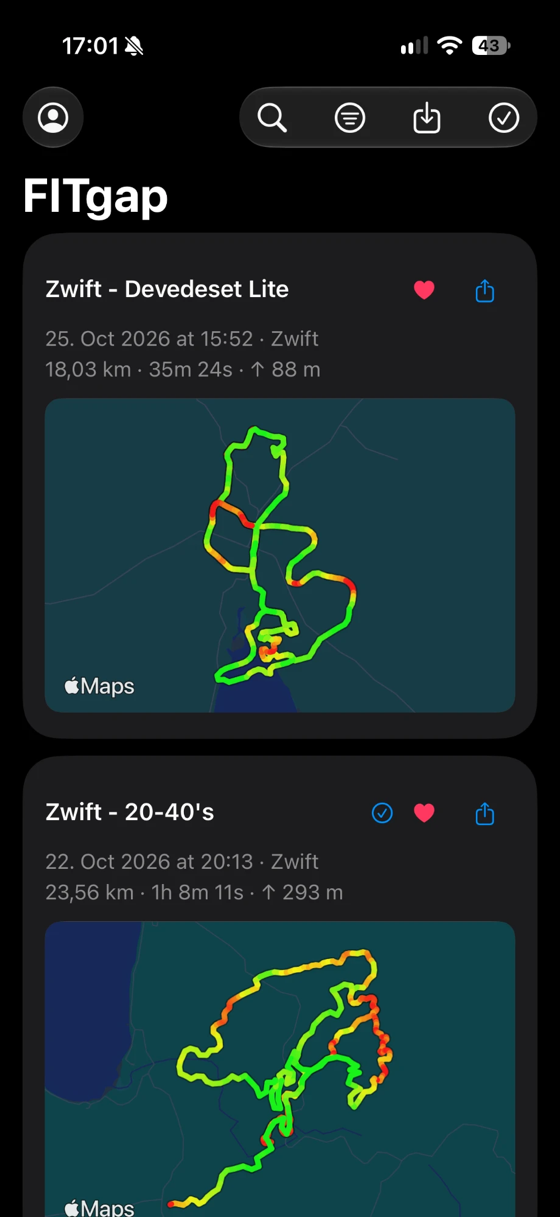
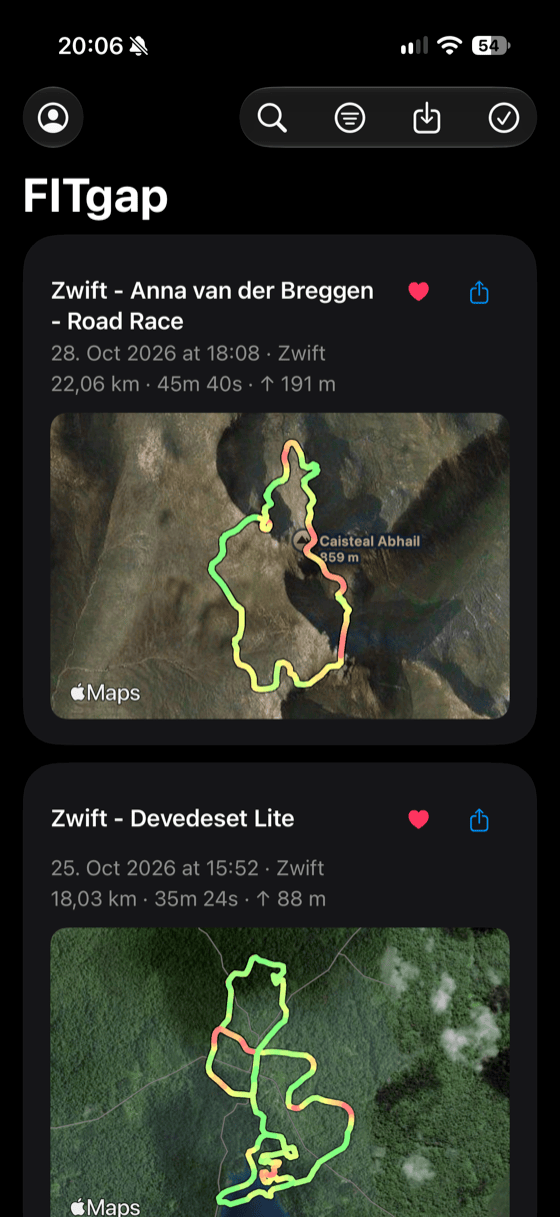
Show satellite maps on the website and in the README
- New screenshots (list, details, iPhone Duo) with the satellite map, compressed with pngquant
- Website and README mention the Standard/Satellite map type and the pastel route colours
- Add the template for the App Store preview images

diff --git a/Assets/Brand/preview-source.html b/Assets/Brand/preview-source.html
@@ -1,0 +1,104 @@
+<!doctype html>
+<!--
+  Source for the FITgap App Store preview images (same look as header-source.html).
+  Render with headless Chrome at the exact pixel size App Store Connect expects, e.g. iPhone 6.3":
+  "/Applications/Google Chrome.app/Contents/MacOS/Google Chrome" --headless --hide-scrollbars \
+    --force-device-scale-factor=1 --window-size=1206,2622 --virtual-time-budget=2000 \
+    --screenshot=out.png "file://$PWD/Assets/Brand/preview-source.html?lang=en&slide=list&w=1206&h=2622&img=file:///path/shot.png"
+  Easier: .claude/skills/app-store-previews/render.sh
+  Query parameters: lang=en|de, slide=list|detail|duo, w/h = target size in pixels, img = screenshot URL,
+  optional badge, head (headline), sub (subline) to replace the built-in copy.
+  The layout is drawn on a canvas whose short side is 660 and scaled to the window.
+-->
+<html>
+<head>
+<meta charset="utf-8">
+<style>
+  html,body{margin:0;overflow:hidden}
+  html{
+    min-height:100%;
+    background:
+      radial-gradient(ellipse 70% 45% at 50% 62%, rgba(120,160,255,.30), transparent 70%),
+      linear-gradient(180deg,#0A62FF 0%,#0B4FD8 45%,#062F9A 100%);
+  }
+  body{
+    font-family:-apple-system,"SF Pro Display","Helvetica Neue",sans-serif;
+    color:#fff;
+    display:flex;box-sizing:border-box;
+  }
+  .text{display:flex;flex-direction:column}
+  h1{margin:0;font-weight:800;letter-spacing:-.02em;line-height:1.05}
+  p{margin:0;font-weight:500;opacity:.88;line-height:1.25}
+  .badge{align-self:flex-start;background:#fff;color:#0B4FD8;font-weight:800;border-radius:999px;letter-spacing:.02em}
+  .shot{display:flex;min-height:0;min-width:0}
+  .shot img{display:block;box-sizing:border-box;
+    border:var(--bez) solid #111;background:#111;
+    box-shadow:0 30px 60px rgba(0,20,90,.45)}
+
+  /* stacked: text on top, screenshot below */
+  body.p{flex-direction:column;align-items:center;padding:64px 40px 0}
+  body.p .text{align-items:center;text-align:center;gap:14px;margin-bottom:40px}
+  body.p .badge{align-self:center;font-size:17px;padding:7px 16px}
+  body.p h1{font-size:46px}
+  body.p p{font-size:22px;max-width:520px}
+  body.p .shot{flex:1;align-items:flex-start;justify-content:center;width:100%}
+  /* tall phone screenshot: runs off the bottom edge */
+  body.p .shot img{--bez:12px;width:560px;max-width:100%;height:auto;border-radius:64px;border-bottom:0;border-bottom-left-radius:0;border-bottom-right-radius:0}
+  /* shorter screenshot (iPhone Duo): whole frame, centred in the space left */
+  body.p.short{padding-bottom:48px}
+  body.p.short .shot{align-items:center}
+  body.p.short .shot img{width:auto;height:auto;max-width:100%;max-height:100%;border-bottom:12px solid #111;border-radius:48px}
+
+  /* side by side: text left, screenshot right (very wide canvases) */
+  body.l{flex-direction:row;align-items:center;padding:48px 56px;gap:48px}
+  body.l .text{flex:0 0 380px;gap:16px}
+  body.l .badge{font-size:16px;padding:7px 16px}
+  body.l h1{font-size:50px}
+  body.l p{font-size:22px}
+  body.l .shot{flex:1;height:100%;align-items:center;justify-content:center}
+  body.l .shot img{--bez:10px;max-height:100%;max-width:100%;border-radius:36px}
+</style>
+</head>
+<body>
+  <div class="text">
+    <span class="badge" id="badge"></span>
+    <h1 id="h"></h1>
+    <p id="s"></p>
+  </div>
+  <div class="shot"><img id="img" alt=""></div>
+<script>
+  var q = new URLSearchParams(location.search);
+  var lang = q.get('lang') === 'de' ? 'de' : 'en';
+  var slide = q.get('slide') || 'list';
+  var copy = {
+    list: {
+      en: ['New: satellite map', 'Your rides on the map', 'Every activity with its route – standard or satellite, coloured by speed.'],
+      de: ['Neu: Satellitenkarte', 'Deine Fahrten auf der Karte', 'Jede Aktivität mit Strecke – Standard oder Satellit, nach Tempo eingefärbt.']
+    },
+    detail: {
+      en: ['FIT to Apple Health', 'Every detail, straight into Health', 'The complete time series of the FIT file – without duplicates.'],
+      de: ['FIT nach Apple Health', 'Alle Details direkt in Health', 'Die komplette Zeitreihe der FIT-Datei – ohne Dubletten.']
+    },
+    duo: {
+      en: ['iPhone Duo', 'List and details side by side', 'Two columns on iPhone Duo and wide displays.'],
+      de: ['iPhone Duo', 'Liste und Details nebeneinander', 'Zweispaltig auf dem iPhone Duo und breiten Displays.']
+    }
+  }[slide][lang];
+  ['badge', 'head', 'sub'].forEach(function (k, i) { if (q.has(k)) copy[i] = q.get(k); });
+  document.getElementById('badge').textContent = copy[0];
+  document.getElementById('h').textContent = copy[1];
+  document.getElementById('s').textContent = copy[2];
+
+  // Headless Chrome's viewport is a little shorter than --window-size, so the target size comes in as w/h.
+  var W = +q.get('w') || innerWidth, H = +q.get('h') || innerHeight, zoom = Math.min(W, H) / 660;
+  document.documentElement.style.zoom = zoom;
+  document.body.style.width = W / zoom + 'px';
+  document.body.style.height = H / zoom + 'px';
+  document.body.className = W / H > 1.8 ? 'l' : 'p';
+
+  var img = document.getElementById('img');
+  img.onload = function () { if (img.naturalHeight / img.naturalWidth < 1.8) document.body.classList.add('short'); };
+  img.src = q.get('img');
+</script>
+</body>
+</html>

diff --git a/docs/index.html b/docs/index.html
@@ -109,7 +109,7 @@ html[lang=en] span[data-l=en],html[lang=de] span[data-l=de]{display:inline}
     <div class="grid">
       <div class="card"><h3><span data-l="en">The whole workout in Health</span><span data-l="de">Das ganze Training in Health</span></h3><p><span data-l="en">Not just a summary: heart rate, power, cadence, speed, running dynamics, laps, pauses, swim lengths, route and metrics like TSS and Normalized Power.</span><span data-l="de">Nicht nur eine Zusammenfassung: Herzfrequenz, Leistung, Trittfrequenz, Geschwindigkeit, Laufdynamik, Runden, Pausen, Schwimmbahnen, Route und Kennzahlen wie TSS und Normalized Power.</span></p></div>
       <div class="card"><h3><span data-l="en">No duplicates</span><span data-l="de">Keine Dubletten</span></h3><p><span data-l="en">Workouts already in Health – from FITgap, Apple Watch, HealthFit or your provider's app – are skipped. The same ride from two sources? The most complete file wins.</span><span data-l="de">Trainings, die schon in Health liegen – von FITgap, Apple Watch, HealthFit oder der Anbieter-App –, werden übersprungen. Dieselbe Fahrt aus zwei Quellen? Die vollständigste Datei gewinnt.</span></p></div>
-      <div class="card"><h3><span data-l="en">Every route at a glance</span><span data-l="de">Jede Strecke auf einen Blick</span></h3><p><span data-l="en">Each activity shows its route on a map, coloured by speed – virtual rides from Zwift or MyWhoosh included. Tap for a full map to zoom in.</span><span data-l="de">Jede Aktivität zeigt ihre Strecke auf der Karte, nach Tempo eingefärbt – auch virtuelle Fahrten aus Zwift oder MyWhoosh. Ein Tipp öffnet die große Karte zum Hineinzoomen.</span></p></div>
+      <div class="card"><h3><span data-l="en">Every route at a glance</span><span data-l="de">Jede Strecke auf einen Blick</span></h3><p><span data-l="en">Each activity shows its route on a map, coloured by speed – virtual rides from Zwift or MyWhoosh included. Tap for a full map to zoom in – as a standard or satellite map.</span><span data-l="de">Jede Aktivität zeigt ihre Strecke auf der Karte, nach Tempo eingefärbt – auch virtuelle Fahrten aus Zwift oder MyWhoosh. Ein Tipp öffnet die große Karte zum Hineinzoomen – wahlweise als Standard- oder Satellitenkarte.</span></p></div>
       <div class="card"><h3><span data-l="en">Private, untouched originals</span><span data-l="de">Privat, unveränderte Originale</span></h3><p><span data-l="en">Files are checked with SHA-256 and never converted or re-encoded. No backend, no tracking. Tokens stay in your device keychain. Health access is optional.</span><span data-l="de">Dateien werden per SHA-256 geprüft und nie konvertiert oder neu kodiert. Kein Backend, kein Tracking. Tokens bleiben im Schlüsselbund deines Geräts. Health-Zugriff ist optional.</span></p></div>
       <div class="card"><h3><span data-l="en">Any FIT file, both ways</span><span data-l="de">Jede FIT-Datei, in beide Richtungen</span></h3><p><span data-l="en">Open FIT files from the Files app, Mail or other apps, for example exports from Garmin, Rouvy or TrainerRoad. Every FIT also appears in the Files app on your iPhone.</span><span data-l="de">FIT-Dateien aus der Dateien-App, Mail oder anderen Apps öffnen, z. B. Exporte von Garmin, Rouvy oder TrainerRoad. Jede FIT erscheint zusätzlich in der Dateien-App auf deinem iPhone.</span></p></div>
       <div class="card"><h3><span data-l="en">Try the demo</span><span data-l="de">Demo ausprobieren</span></h3><p><span data-l="en">No account needed: explore the app with sample rides and their routes, Apple Health export included.</span><span data-l="de">Kein Konto nötig: App mit Beispielfahrten samt Strecken erkunden, inklusive Export nach Apple Health.</span></p></div>

diff --git a/README.de.md b/README.de.md
@@ -27,7 +27,7 @@ FITgap ist eine schlanke Open-Source-iPhone-App, die deine **Original-FIT-Dateie
 - **Teilen:** Eine FIT oder eine Mehrfachauswahl ans System-Share-Sheet übergeben, z. B. an HealthFit. Geteilte Aktivitäten werden in der Liste markiert.
 - **Apple Health:** Aktivitäten als Trainings sichern, mit allen Messwerten, für die Health einen Typ hat (Herzfrequenz, Leistung, Trittfrequenz, Geschwindigkeit, Laufdynamik, Strecke, Energie, Schwimmbahnen), Runden, Pausen, Route und der Session-Zusammenfassung als Metadaten. Einzeln, per Auswahl oder automatisch für neue Aktivitäten. Bereits in Health vorhandene Trainings, von FITgap oder einer anderen App, werden erkannt und übersprungen.
 - **Details:** Strecke, Dauer, Durchschnitts- und Höchstgeschwindigkeit, Herzfrequenz, Trittfrequenz, Leistung, Höhenmeter und mehr, lokal aus der FIT-Session gelesen.
-- **Streckenkarte:** Liste und Details zeigen die aufgezeichnete Strecke auf einer Apple-Karte, nach Tempo eingefärbt (rot langsam, gelb mittel, grün schnell) mit Start und Ziel; virtuelle Fahrten aus Zwift oder MyWhoosh liegen an den Koordinaten ihrer Spielwelt. Ein Tipp auf die Karte in den Details öffnet sie bildschirmfüllend zum Hineinzoomen. Aktivitäten ohne Positionen zeigen keine Karte.
+- **Streckenkarte:** Liste und Details zeigen die aufgezeichnete Strecke auf einer Apple-Karte, nach Tempo in sanften Pastellfarben eingefärbt (Koralle langsam, Gelb mittel, Mint schnell) mit Start und Ziel; virtuelle Fahrten aus Zwift oder MyWhoosh liegen an den Koordinaten ihrer Spielwelt. Ein Tipp auf die Karte in den Details öffnet sie bildschirmfüllend zum Hineinzoomen. Den Kartentyp „Standard“ oder „Satellit“ wählst du unter „Konten“ › „Karte“ oder in der großen Karte. Aktivitäten ohne Positionen zeigen keine Karte.
 - **Suche und Filter** über alle heruntergeladenen Aktivitäten: Zeitraum (letzte 7 oder 30 Tage, letzte 12 Monate, dieses oder letztes Jahr), Aktivitätstyp und Datenquelle.
 - **Dateien-App:** Jede geladene FIT liegt zusätzlich unter *Auf meinem iPhone › FITgap*.
 - **Große Archive:** Seitenweiser Abgleich mit Fortsetzung, Beachtung der Abruflimits von Wahoo und Dropbox und abbrechbare Downloads. Ab iOS 26 läuft ein selbst gestarteter Abgleich oder Health-Export nach dem Verlassen der App weiter, mit Fortschritt in der Dynamic Island.

diff --git a/README.md b/README.md
@@ -27,7 +27,7 @@ FITgap is a small, open-source iPhone app that downloads your **original FIT fil
 - **Share:** Hand one FIT or a multi-selection to the system share sheet, for example to HealthFit. Shared activities are marked in the list.
 - **Apple Health:** Save activities as workouts with every record sample Health supports (heart rate, power, cadence, speed, running dynamics, distance, energy, swim lengths), laps, pauses, route and the session summary as metadata. Individually, by selection or automatically for new activities. Workouts already in Health, from FITgap or another app, are detected and skipped.
 - **Details:** Distance, duration, average and maximum speed, heart rate, cadence, power, elevation and more, read locally from the FIT session summary.
-- **Route map:** Rows and details show the recorded route on an Apple map, coloured by speed (red slow, yellow average, green fast) with start and finish; virtual rides from Zwift or MyWhoosh appear at the coordinates of their game world. Tap the map in the details to open it full screen and zoom in. Activities without positions show no map.
+- **Route map:** Rows and details show the recorded route on an Apple map, coloured by speed in soft pastel shades (coral slow, yellow average, mint fast) with start and finish; virtual rides from Zwift or MyWhoosh appear at the coordinates of their game world. Tap the map in the details to open it full screen and zoom in. Choose the map type, Standard or Satellite, under “Accounts” › “Map” or in the full-screen map. Activities without positions show no map.
 - **Search and filters** across all downloaded activities: time period (last 7 or 30 days, last 12 months, this or last year), activity type and data source.
 - **Files app:** Every downloaded FIT is also available under *On My iPhone › FITgap*.
 - **Large archives:** Paged syncing with resume, respect for Wahoo and Dropbox rate limits, and cancellable downloads. On iOS 26 and later, a sync or Health export you started keeps running after you leave the app, with progress in the Dynamic Island.
